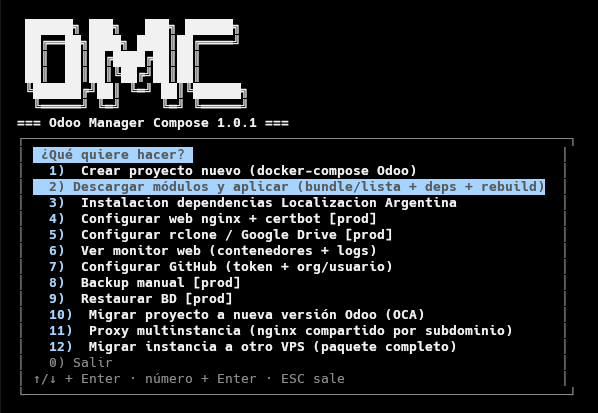
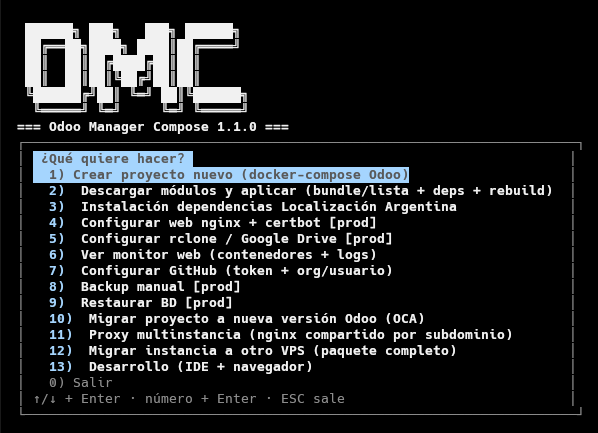
Release 1.1.1: fix menu.png 598x433 (13 Dev) + comentario 1..13 + docs

diff --git a/src/omc/flows.py b/src/omc/flows.py
@@ -2564,7 +2564,7 @@ def menu_principal() -> str:
     ]
     print(banner_omc(PKG_VERSION))
     labels = [v for _k, v in acciones if _k != "salir"]
-    # Opciones navegables: 1..11 + 0 Salir (12 items, 0 navegable)
+    # Opciones navegables: 1..13 + 0 Salir (14 items, 0 navegable)
     nav_items = [f"{i}) {lab}" for i, lab in enumerate(labels, 1)] + ["0) Salir"]
     # Intento con flechas si hay tty real
     try:

diff --git a/src/omc/__init__.py b/src/omc/__init__.py
@@ -1,4 +1,4 @@
 """omc: Odoo Manager Compose (paquete)."""
 
-__version__ = "1.1.0"
+__version__ = "1.1.1"
 __all__ = ["__version__"]

diff --git a/CHANGELOG.md b/CHANGELOG.md
@@ -24,6 +24,11 @@
 - **Mailpit en dev**: buzón local (`:8025`, SMTP interno 1025), `list_db = False`,
   `.env.example` sin secretos.
 
+## [1.1.1] - 2026-09-22
+
+- **Fix**: menú captura `assets/images/menu.png` 598x433 con 13) Desarrollo (banner 1.1.0), comentario `src/omc/flows.py:2567` 1..13 + 0 Salir (14 items), licencia SPDX string `AGPL-3.0-only`.
+- **Docs**: `Manual §1.1` `.env` ignorado + `.env.ejemplo` sin `VPS_*` + `list_db=False` oculta `/web/database/manager`, `§5.7` `production` vs `ENTORNO=produccion`, `§7.3` snippet `resolver 127.0.0.11 valid=10s` dinámico vs clásico `upstream`.
+
 ## [Sin publicar]
 
 ## [1.0.0]
